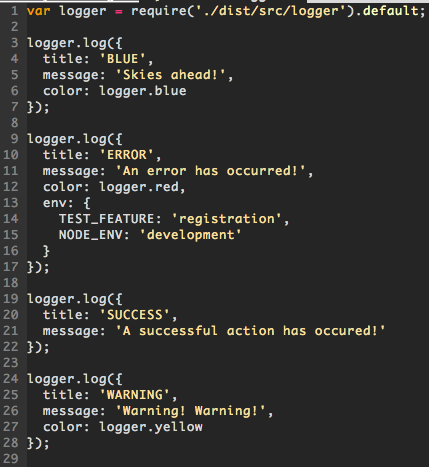
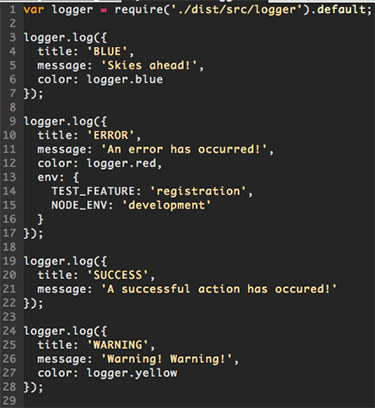
modify asset size

diff --git a/README.md b/README.md
@@ -1,6 +1,6 @@
 # cf-log
 
-<img src="assets/output.png" style="width: 375px">
+<img src="assets/output.png">
 
 ### A conditional logger with colored labels for node.js
 
@@ -35,5 +35,5 @@ variables `NODE_ENV` and `LOG_FEATURE` are set to
 their respective values.
 
 ### Imagery
-<img src="assets/usage.png" style="width: 250px">
-<img src="assets/test.png" style="width: 250px">
+<img src="assets/usage.png">
+<img src="assets/test.png">
